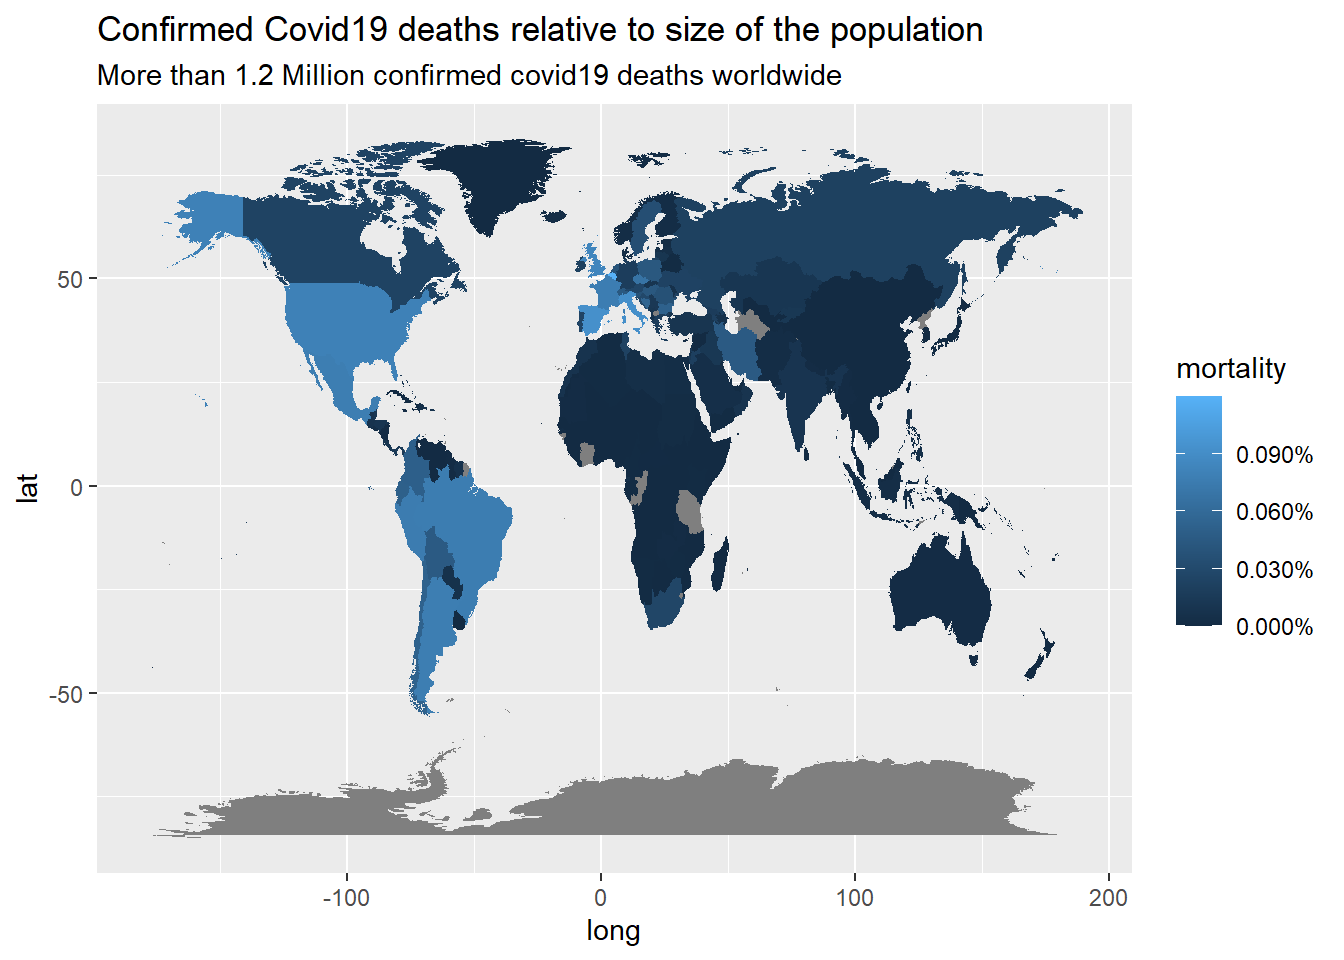
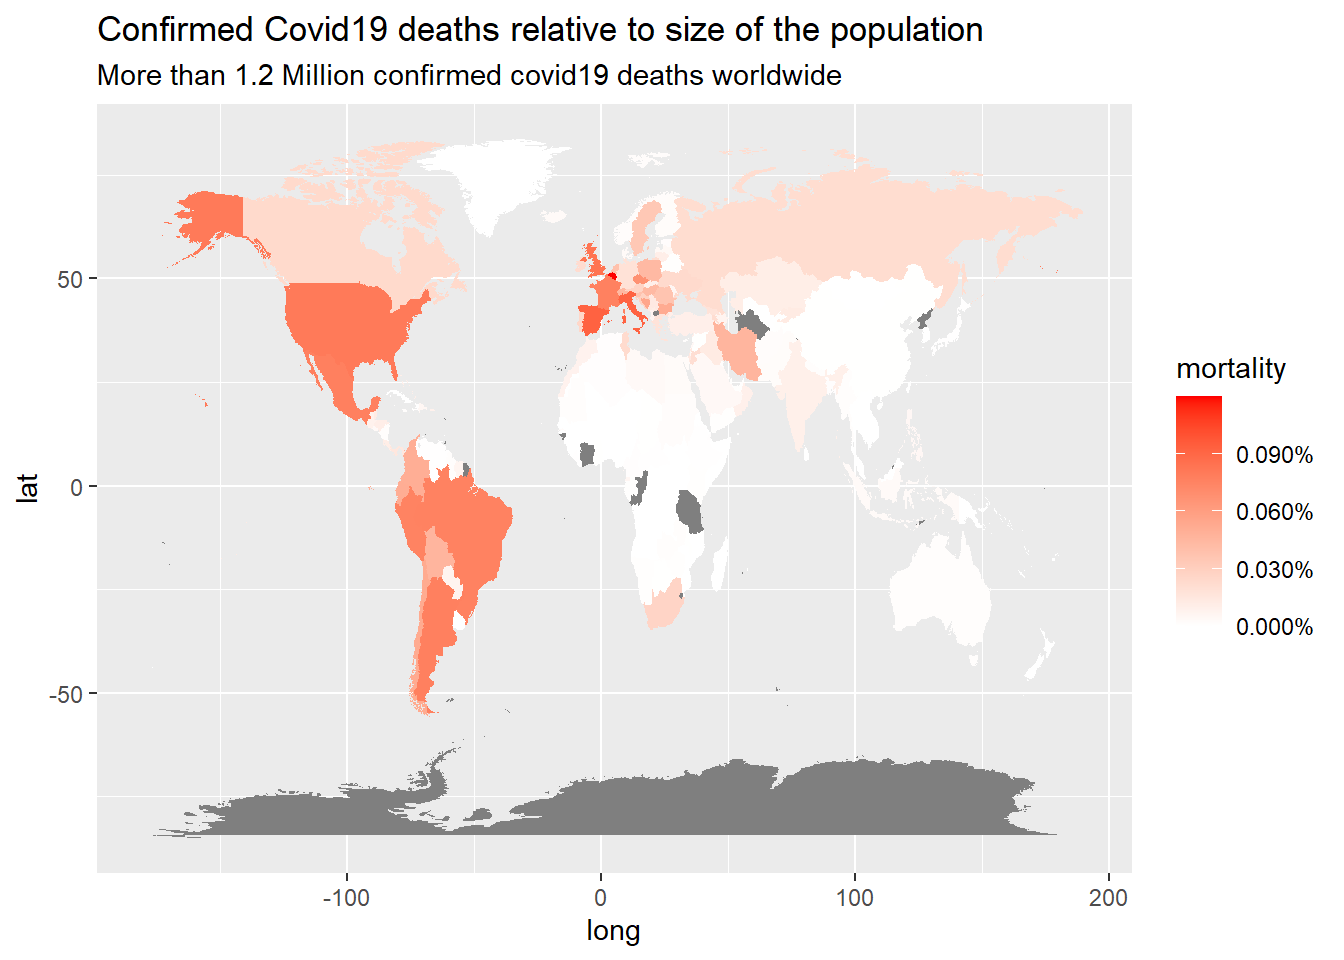
update - color

Changed region(s): [[0.4062, 0.1562, 0.8125, 0.7188], [0.125, 0.125, 0.4375, 0.75], [0.875, 0.4062, 0.9062, 0.6562]]

diff --git a/docs/journal.html b/docs/journal.html
@@ -1044,7 +1044,7 @@ covid_by_map_tbl &lt;- merge(x = world, y = covid_by_mortality_tbl,
                           all.y = FALSE)
 
 toc()</code></pre>
-<pre><code>## 0.09 sec elapsed</code></pre>
+<pre><code>## 0.03 sec elapsed</code></pre>
 <pre class="r"><code>covid_by_map_tbl%&gt;% glimpse()</code></pre>
 <pre><code>## Rows: 99,338
 ## Columns: 7
@@ -1063,7 +1063,7 @@ key(covid_by_map_tbl)</code></pre>
 covid_by_map_tbl%&gt;%
   ggplot() +
   geom_map(aes(x = long, y = lat, map_id = region, fill = mortality),map = world) +
-  scale_fill_continuous(labels = scales::percent)+
+  scale_fill_continuous(labels = scales::percent, low = &quot;white&quot;, high=&quot;red&quot;)+
   labs(title = &quot;Confirmed Covid19 deaths relative to size of the population &quot;,
        subtitle = &quot;More than 1.2 Million confirmed covid19 deaths worldwide&quot;)</code></pre>
 <p><img src="journal_files/figure-html/unnamed-chunk-28-1.png" width="672" /></p>
